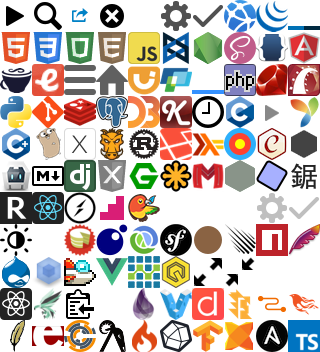
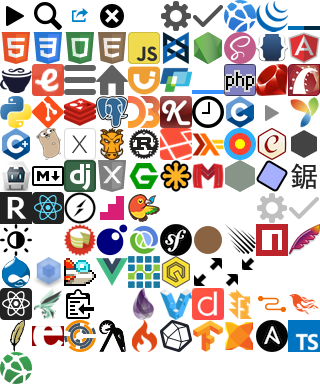
Add caniuse.com support tables

diff --git a/assets/stylesheets/pages/_support_tables.scss b/assets/stylesheets/pages/_support_tables.scss
@@ -1,0 +1,64 @@
+._support_tables {
+  h2 { @extend %block-heading; }
+  code { @extend %label; }
+
+  > .stats {
+    tr.show-all ~ tr { display: none; }
+
+    &.show-all {
+      tr.show-all { display: none; }
+      tr.show-all ~ tr { display: table-row; }
+    }
+
+    td, th {
+      position: relative;
+      text-align: center;
+      min-width: 5rem;
+    }
+
+    sup {
+      position: absolute;
+      top: 0;
+      right: 2px;
+      font-size: .625rem;
+    }
+
+    tr.current {
+      font-weight: bold;
+      font-size: 1rem;
+    }
+
+    td {
+      padding: .125rem .25rem;
+      white-space: nowrap;
+      cursor: default;
+    }
+
+    td.y {
+      color: white;
+      background: #39b54a;
+    }
+
+    td.n, td.p {
+      color: white;
+      background: #c44230;
+    }
+
+    td.a {
+      color: white;
+      background: #a8bd04;
+    }
+
+    td.u {
+      color: white;
+      background: #838383;
+    }
+
+    th.show-all {
+      background: none;
+      border-bottom: 0;
+    }
+
+    a.show-all { display: block; }
+  }
+}

diff --git a/assets/stylesheets/global/_icons.scss b/assets/stylesheets/global/_icons.scss
@@ -4,7 +4,7 @@
   width: 1rem;
   height: 1rem;
   background-image: image-url('icons.png');
-  background-size: 10rem 11rem;
+  background-size: 10rem 12rem;
 }
 
 @media (-webkit-min-device-pixel-ratio: 1.5), (min-resolution: 144dpi) {
@@ -133,3 +133,4 @@
 ._icon-haxe:before          { background-position: -7rem -10rem; }
 ._icon-ansible:before       { background-position: -8rem -10rem; @extend %darkIconFix !optional; }
 ._icon-typescript:before    { background-position: -9rem -10rem; }
+._icon-browser_support_tables:before { background-position: 0rem -11rem; }

diff --git a/assets/stylesheets/application.css.scss b/assets/stylesheets/application.css.scss
@@ -75,6 +75,7 @@
         'pages/socketio',
         'pages/sphinx',
         'pages/sphinx_simple',
+        'pages/support_tables',
         'pages/tcl_tk',
         'pages/tensorflow',
         'pages/underscore',

diff --git a/assets/stylesheets/application-dark.css.scss b/assets/stylesheets/application-dark.css.scss
@@ -76,6 +76,7 @@
         'pages/sphinx',
         'pages/sphinx_simple',
         'pages/tcl_tk',
+        'pages/support_tables',
         'pages/tensorflow',
         'pages/underscore',
         'pages/vagrant',

diff --git a/lib/docs/scrapers/support_tables.rb b/lib/docs/scrapers/support_tables.rb
@@ -1,0 +1,182 @@
+require 'yajl/json_gem'
+
+module Docs
+  class SupportTables < Doc
+    include Instrumentable
+
+    self.name = 'Support Tables'
+    self.slug = 'browser_support_tables'
+    self.type = 'support_tables'
+
+    def build_pages
+      url = 'https://github.com/Fyrd/caniuse/raw/master/data.json'
+      instrument 'running.scraper', urls: [url]
+
+      response = Request.run(url)
+      instrument 'process_response.scraper', response: response
+
+      data = JSON.parse(response.body)
+      instrument 'queued.scraper', urls: data['data'].keys
+
+      data['agents']['and_chr']['browser'] = 'Android Chrome'
+      data['agents']['and_ff']['browser'] = 'Android Firefox'
+      data['agents']['and_uc']['browser'] = 'Android UC Browser'
+      data['desktop_agents'] = data['agents'].select { |_, agent| agent['type'] == 'desktop' }
+      data['mobile_agents']  = data['agents'].select { |–, agent| agent['type'] == 'mobile' }
+      data['total_versions'] = data['agents']['firefox']['versions'].length
+
+      index_page = {
+        path: 'index',
+        store_path: 'index.html',
+        output: ERB.new(INDEX_PAGE_ERB).result(binding),
+        entries: [Entry.new(nil, 'index', nil)]
+      }
+
+      yield index_page
+
+      data['data'].each do |feature_id, feature|
+        url = "https://github.com/Fyrd/caniuse/raw/master/features-json/#{feature_id}.json"
+
+        response = Request.run(url)
+        instrument 'process_response.scraper', response: response
+
+        feature = JSON.parse(response.body)
+
+        name = feature['title']
+        type = feature['categories'].find { |category| name.include?(category) } || feature['categories'].first
+
+        page = {
+          path: feature_id,
+          store_path: "#{feature_id}.html",
+          output: ERB.new(PAGE_ERB).result(binding),
+          entries: [Entry.new(name, feature_id, type)]
+        }
+
+        yield page
+      end
+    end
+
+    def md_to_html(str)
+      str = str.strip
+      str.gsub! %r{`(.*?)`}, '<code>\1</code>'
+      str.gsub! %r{\n\s*\n}, '</p><p>'
+      str.gsub! "\n", '<br>'
+      str.gsub! %r{\[(.+?)\]\((.+?)\)}, '<a href="\2">\1</a>'
+      str
+    end
+
+    def support_to_css_class(support)
+      support.select { |s| s.length == 1 }.join(' ')
+    end
+
+    def support_to_note_indicators(support)
+      notes = support.select { |s| s.start_with?('#') }.map { |s| s[1..-1] }
+      notes << '*' if support.include?('x')
+      "<sup>(#{notes.join(',')})</sup>" if notes.present?
+    end
+
+    INDEX_PAGE_ERB = <<-HTML.strip_heredoc
+      <h1>Browser support tables</h1>
+    HTML
+
+    PAGE_ERB = <<-HTML.strip_heredoc
+      <h1><%= feature['title'] %></h1>
+
+      <p><%= md_to_html feature['description'] %></p>
+
+      <table>
+        <% if feature['spec'].present? %>
+          <tr>
+            <th>Spec</th>
+            <td><a href="<%= feature['spec'] %>"><%= feature['spec'] %></a></td>
+          </tr>
+        <% end %>
+
+        <% if feature['status'].present? %>
+          <tr>
+            <th>Status</th>
+            <td><%= data['statuses'][feature['status']] %></td>
+          </tr>
+        <% end %>
+      </table>
+
+      <% ['desktop', 'mobile'].each do |type| %>
+        <table class="stats">
+          <tr>
+            <% data["\#{type}_agents"].each do |agent_id, agent| %>
+              <th><%= agent['browser'] %></th>
+            <% end %>
+          </tr>
+          <% (0...(data['total_versions'])).reverse_each do |i| %>
+            <% next if data["\#{type}_agents"].none? { |_, agent| agent['versions'][i] } %>
+            <% if i == (data['total_versions'] - 8) %>
+              <tr class="show-all">
+                <th class="show-all" colspan="<%= data["\#{type}_agents"].length %>">
+                  <a href="#" class="show-all">Show all</a>
+                </th>
+              </tr>
+            <% end %>
+            <tr<%= ' class="current"' if i == (data['total_versions'] - 4) %>>
+              <% data["\#{type}_agents"].each do |agent_id, agent| %>
+                <% version = agent['versions'][i] %>
+                <% if version %>
+                  <% support = feature['stats'][agent_id][version].split(' ') %>
+                  <% feature['prefix'] = true if support.include?('x') %>
+                  <td class="<%= support_to_css_class(support)  %>"><%= version %> <%= support_to_note_indicators(support) %></td>
+                <% else %>
+                  <td>&nbsp;</td>
+                <% end %>
+              <% end %>
+            </tr>
+          <% end %>
+        </table>
+      <% end %>
+
+      <h2>Notes</h2>
+
+      <% if feature['notes'].present? %>
+        <p><%= md_to_html feature['notes'] %></p>
+      <% end %>
+
+      <% if feature['notes_by_num'].present? %>
+        <ol>
+          <% feature['notes_by_num'].each do |num, note| %>
+            <li><p><%= md_to_html note %></p></li>
+          <% end %>
+        </ol>
+      <% end %>
+
+      <% if feature['prefix'] %>
+        <dl>
+          <dd><sup>*</sup> Partial support with prefix.</dd>
+        </dl>
+      <% end %>
+
+      <% if feature['bugs'].present? %>
+        <h2>Bugs</h2>
+        <ul>
+          <% feature['bugs'].each do |bug| %>
+            <li><p><%= md_to_html bug['description'] %></p></li>
+          <% end %>
+        </ul>
+      <% end %>
+
+      <% if feature['links'].present? %>
+        <h2>Resources</h2>
+        <ul>
+          <% feature['links'].each do |link| %>
+            <li><a href="<%= link['url'] %>"><%= link['title'] %></a></li>
+          <% end %>
+        </ul>
+      <% end %>
+
+      <div class="_attribution">
+        <p class="_attribution-p">
+          Data by caniuse.com<br>
+          Licensed under the Creative Commons Attribution License v4.0.<br>
+          <a href="http://caniuse.com/#feat=<%= feature_id %>" class="_attribution-link">http://caniuse.com/#feat=<%= feature_id %></a>
+        </p>
+      </div>
+    HTML
+  end
+end
